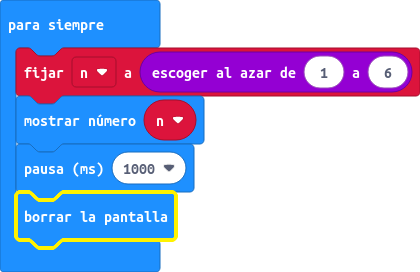
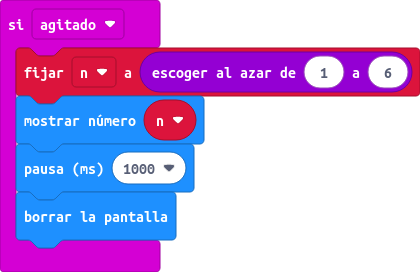
Actualizar main.blocks, main.ts

Changed region(s): [[0.0, 0.0, 0.4333, 1.0]]

diff --git a/main.ts b/main.ts
@@ -1,5 +1,5 @@
 let n = 0
-basic.forever(function () {
+input.onGesture(Gesture.Shake, function () {
     n = randint(1, 6)
     basic.showNumber(n)
     basic.pause(1000)
